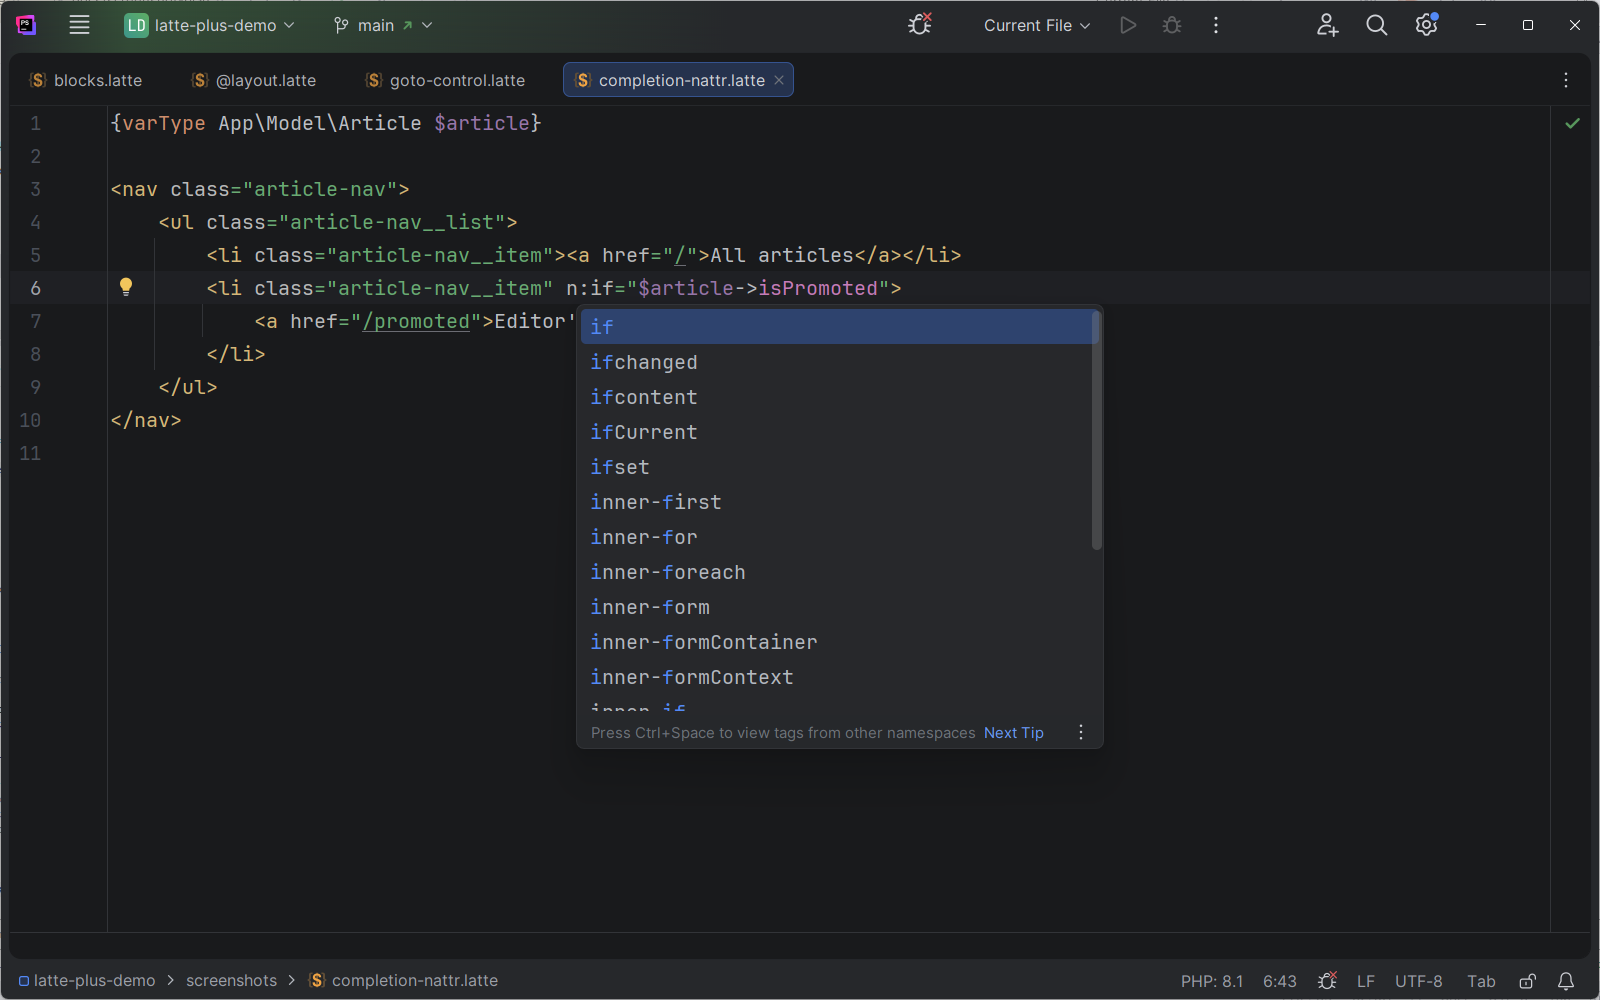
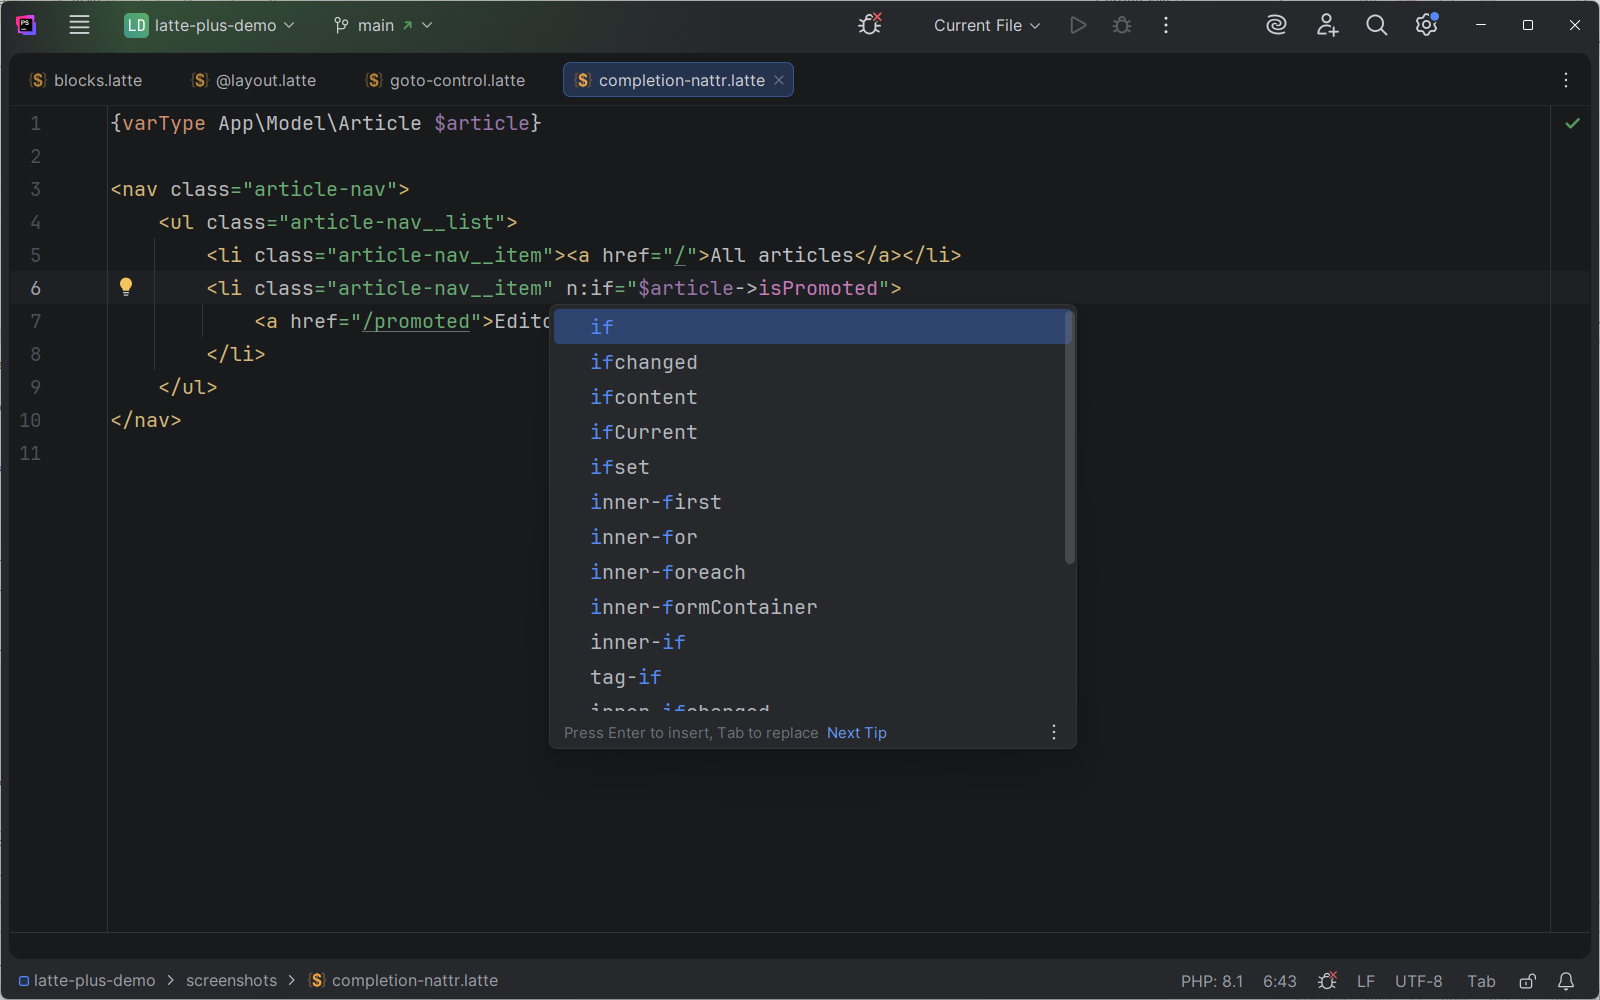
docs: refresh three screenshots and add four new ones
Reshot, because the plugin changed under them:

- n:attribute completion no longer offers `inner-form` and `inner-formContext`
  (Latte rejects the n: form of both) and now offers `tag-if`.
- Find Usages names its groups: a block usage reads "Latte template" and a
  parameter usage "Value read in Latte template", where both used to say
  "Unclassified".

New, each next to text that was already published without a picture:

- component factories a template keeps alive, with the one no template names
  greyed out beside them,
- the two declarations offered for a variable a varType types and a presenter
  fills,
- tag completion inside an HTML attribute value,
- the quick fix for a misspelled form name in n:name.

diff --git a/screenshots.md b/screenshots.md
@@ -94,6 +94,14 @@ insert for you.
 
 ![Tag completion after an opening brace]({{ '/assets/img/screens/S06-tag-completion.png' | relative_url }})
 
+### Latte tags inside an attribute value
+
+A tag completes inside an attribute value as readily as anywhere else, here in `class`
+with `btn ` already typed in front of it. Tags your own project registers are in the
+list next to the built-in ones, each with the arguments it takes.
+
+![Latte tag completion inside an attribute value]({{ '/assets/img/screens/S38-tag-in-attribute-value.png' | relative_url }})
+
 ### PHP members, with types
 
 `$image->` completes against the item type of the collection you are looping over, read
@@ -236,6 +244,13 @@ spot, so you can keep writing the template you are in.
 
 ![Quick fix creating a missing template]({{ '/assets/img/screens/S20-quickfix-create-file.png' | relative_url }})
 
+### A form name that does not exist
+
+`<form n:name="…">` is checked against the forms the presenter really builds, so a typo
+is reported where you wrote it and the fix renames it to the closest name that exists.
+
+![Quick fix for a misspelled form name]({{ '/assets/img/screens/S39-form-name-quickfix.png' | relative_url }})
+
 ---
 
 ## Navigation
@@ -255,6 +270,14 @@ component, instead of you searching the presenter for the right `createComponent
 
 ![Go to declaration from a control tag]({{ '/assets/img/screens/S31-goto-control.png' | relative_url }})
 
+### From a typed variable to both of its sources
+
+A variable that a `{varType}` types and a presenter fills has two places worth opening,
+and `Ctrl+B` offers both: the `{varType}` line that gives it a type, and the presenter
+method that puts the value in, named in full so you know where you are going.
+
+![Go to declaration on a typed variable]({{ '/assets/img/screens/S37-goto-typed-variable.png' | relative_url }})
+
 ### Find usages of a block across the project
 
 Find Usages on a `{define}` collects every `{include}` that pulls the block in, anywhere
@@ -270,6 +293,15 @@ alone are not in the list, so you get the answer to "who actually sets this?" in
 of "where is this template used?".
 
 ![Find usages of an optional template parameter]({{ '/assets/img/screens/S35-find-usages-parameter.png' | relative_url }})
+
+### PHP that only a template uses
+
+A `createComponentX()` factory is never called by name in PHP, because the framework
+builds the name out of what the template writes. Latte+ indexes those names, so the
+three factories this template reaches stay live and the fourth one, which no template
+names, is the only one greyed out as unused.
+
+![Component factories kept alive by a template, next to one that no template names]({{ '/assets/img/screens/S36-kept-alive-by-template.png' | relative_url }})
 
 ---
 

diff --git a/features/documentation-hints.md b/features/documentation-hints.md
@@ -26,11 +26,14 @@ Hover or press `Ctrl+Q` on almost anything for inline documentation:
 On a tag you get its syntax, a short description of what it does and a link straight to
 the matching page of the Latte documentation.
 
+![Quick documentation of a foreach tag with its syntax, description and a link to the Latte docs]({{ '/assets/img/screens/S14-quick-doc-tag.png' | relative_url }})
+
 A variable that a `{varType}` types and a presenter fills is the interesting case here.
 On such a variable the hover adds a **`Set by Class::method().`** line under the type,
-so the declaration and the source of the value are one popup apart.
+so the declaration and the source of the value are one popup apart. The same wording
+names the second target when you jump to the declaration instead.
 
-![Quick documentation of a foreach tag with its syntax, description and a link to the Latte docs]({{ '/assets/img/screens/S14-quick-doc-tag.png' | relative_url }})
+![The two declarations offered for a typed variable, the second naming the method that sets the value]({{ '/assets/img/screens/S37-goto-typed-variable.png' | relative_url }})
 
 ## Parameter info (`Ctrl+P`)
 

diff --git a/features/navigation-refactoring.md b/features/navigation-refactoring.md
@@ -51,6 +51,8 @@ including **across files**.
 
 ![Ctrl+B on a control tag landing on the factory method that builds the component]({{ '/assets/img/screens/S31-goto-control.png' | relative_url }})
 
+![Go to declaration on a typed variable, offering the varType line and the presenter method that sets the value]({{ '/assets/img/screens/S37-goto-typed-variable.png' | relative_url }})
+
 ## Find Usages (`Alt+F7`)
 
 Run Find Usages on a `{block}`, `{define}`, variable, component or filter to get every
@@ -86,6 +88,8 @@ whole-project **Inspect Code** run alike.
 
 The same references work in both directions: `Alt+F7` on the method lists the template
 that reaches it, and `Shift+F6` rewrites the template along with the declaration.
+
+![Three component factories a template names, live, next to a fourth that no template names and stays greyed out as unused]({{ '/assets/img/screens/S36-kept-alive-by-template.png' | relative_url }})
 
 ## Rename (`Shift+F6`)
 

diff --git a/features/inspections.md b/features/inspections.md
@@ -197,6 +197,8 @@ one. To say that a block arrives from elsewhere, wrap the include in `{ifset #na
 - **No-escape filter** – flags a `|noescape`-only modifier on a `{control}`.
 - **Nonce attribute** – `n:nonce` used outside its valid scope.
 
+![A misspelled form name in n:name, with the quick fix offering the name the factory really builds]({{ '/assets/img/screens/S39-form-name-quickfix.png' | relative_url }})
+
 ## PHP tag mode
 
 - Validates `{php}` / `{do}` bodies against the active

diff --git a/features/nette-integration.md b/features/nette-integration.md
@@ -101,6 +101,8 @@ renames it to the closest one the factory really builds.
 
 ![Completion of form field names inside a form tag]({{ '/assets/img/screens/S30-form-input-completion.png' | relative_url }})
 
+![A misspelled form name in n:name, with the quick fix offering the name the factory really builds]({{ '/assets/img/screens/S39-form-name-quickfix.png' | relative_url }})
+
 ## `{snippet}` and AJAX
 
 `{snippet}` and `{snippetArea}` names are recognised and checked within the template

diff --git a/features/completion.md b/features/completion.md
@@ -122,3 +122,5 @@ completion just as it would in a plain HTML file.
 
 Latte tags complete inside an attribute value too – in `class`, `href` and `id` as
 readily as anywhere else, and with text already typed in front of them.
+
+![Latte tag completion inside the value of a class attribute, offered after text already typed in front of it]({{ '/assets/img/screens/S38-tag-in-attribute-value.png' | relative_url }})
